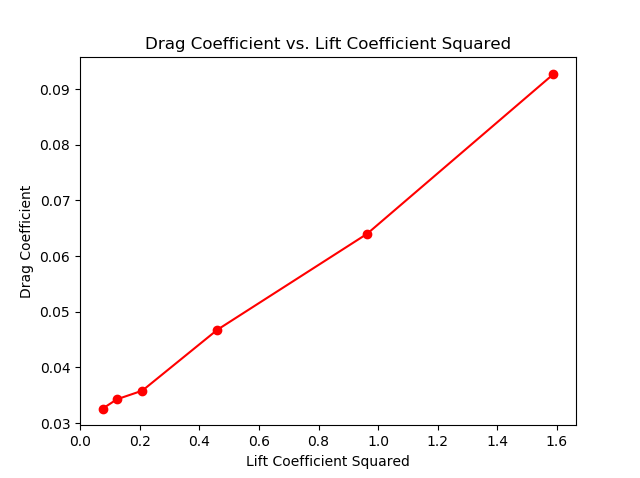
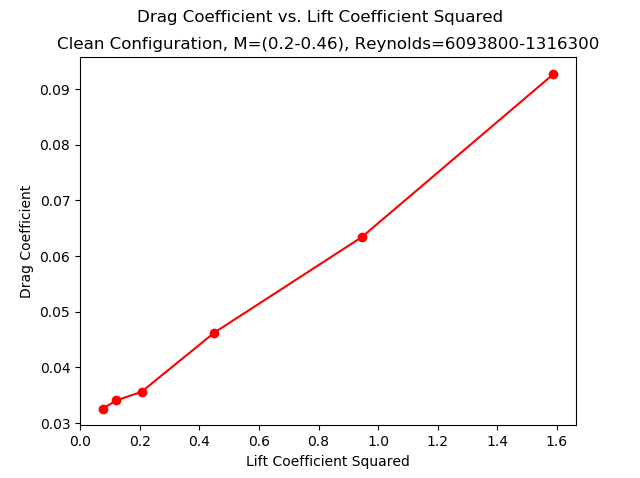
kn'asdjajsdna

diff --git a/Clgraphs.py b/Clgraphs.py
@@ -157,13 +157,18 @@ Cl2 = []
 for i in Cl:
     Cl2.append(i**2)
 
+Reynolds = []
+for i in range(len(rho)):
+    Reynolds.append((rho[i]*Ve_bar[i]*2.0569)/(1.81*10.**(-5.)))
+
 plt.figure(1)
 #plt.subplot(211)
 plt.plot(alpha,Cl,"go")
 plt.plot(alpha,Cl,"g")
 plt.xlabel("Angle of attack [deg]")
 plt.ylabel("Lift Coefficient")
-plt.title("Lift Coefficient vs. Angle of Attack")
+plt.suptitle("Lift Coefficient vs. Angle of Attack")
+plt.title("Clean Configuration, M=(0.2-0.46), Reynolds=6093800-1316300")
 plt.show()
 
 plt.figure(2)
@@ -172,7 +177,8 @@ plt.plot(Cl2,Cd,"ro")
 plt.plot(Cl2,Cd,"r")
 plt.xlabel("Lift Coefficient Squared")
 plt.ylabel("Drag Coefficient")
-plt.title("Drag Coefficient vs. Lift Coefficient Squared")
+plt.suptitle("Drag Coefficient vs. Lift Coefficient Squared")
+plt.title("Clean Configuration, M=(0.2-0.46), Reynolds=6093800-1316300")
 plt.show()
 
 plt.figure(3)
@@ -181,7 +187,8 @@ plt.plot(alpha,Cd,"bo")
 plt.plot(alpha,Cd,"b")
 plt.xlabel("Angle of attack [deg]")
 plt.ylabel("Drag Coefficient")
-plt.title("Drag Coefficient vs. Angle of Attack")
+plt.suptitle("Drag Coefficient vs. Angle of Attack")
+plt.title("Clean Configuration, M=(0.2-0.46), Reynolds=6093800-1316300")
 plt.show()
 # =============================================================================
 # dy = max(Cd) - min(Cd)
@@ -218,7 +225,8 @@ plt.plot(CdC,Cl,"ko", label="Linearized Cd")
 plt.plot(CdC,Cl,"k")
 plt.xlabel("Drag Coefficient")
 plt.ylabel("Lift Coefficient")
-plt.title("Drag Polar")
+plt.suptitle("Drag Polar")
+plt.title("Clean Configuration, M=(0.2-0.46), Reynolds=6093800-1316300")
 plt.show()
 #for i in range(len(Cd)-1):
 #==============================================================================
